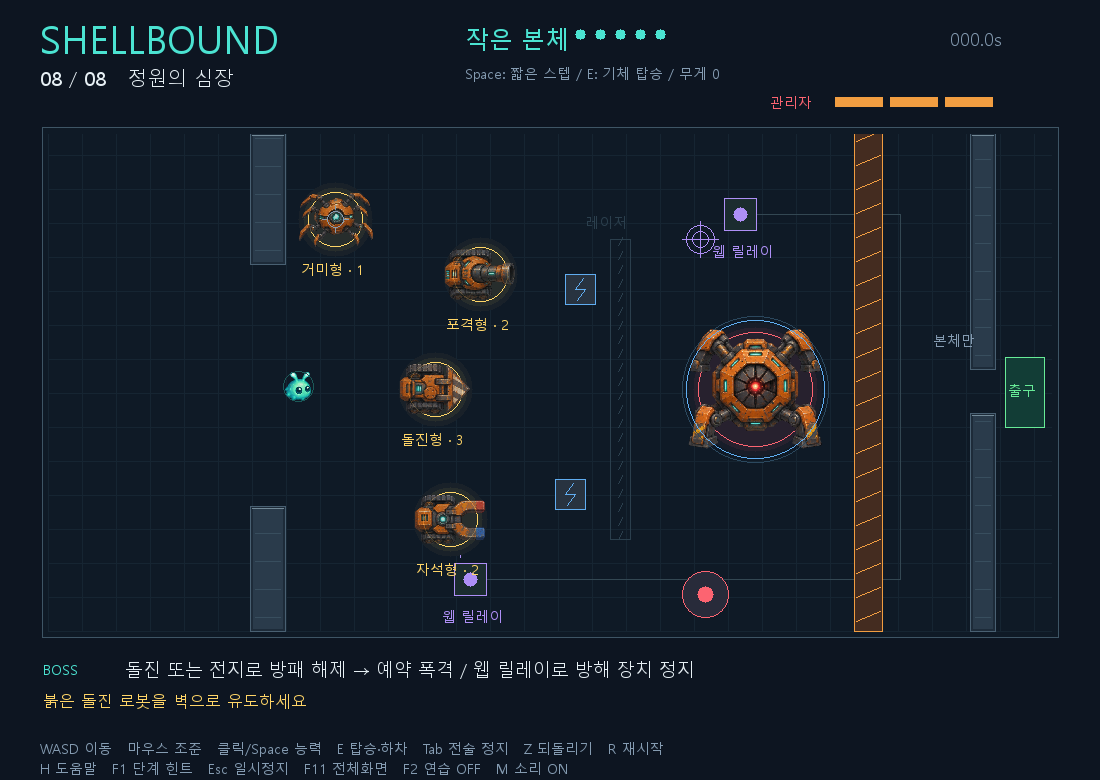
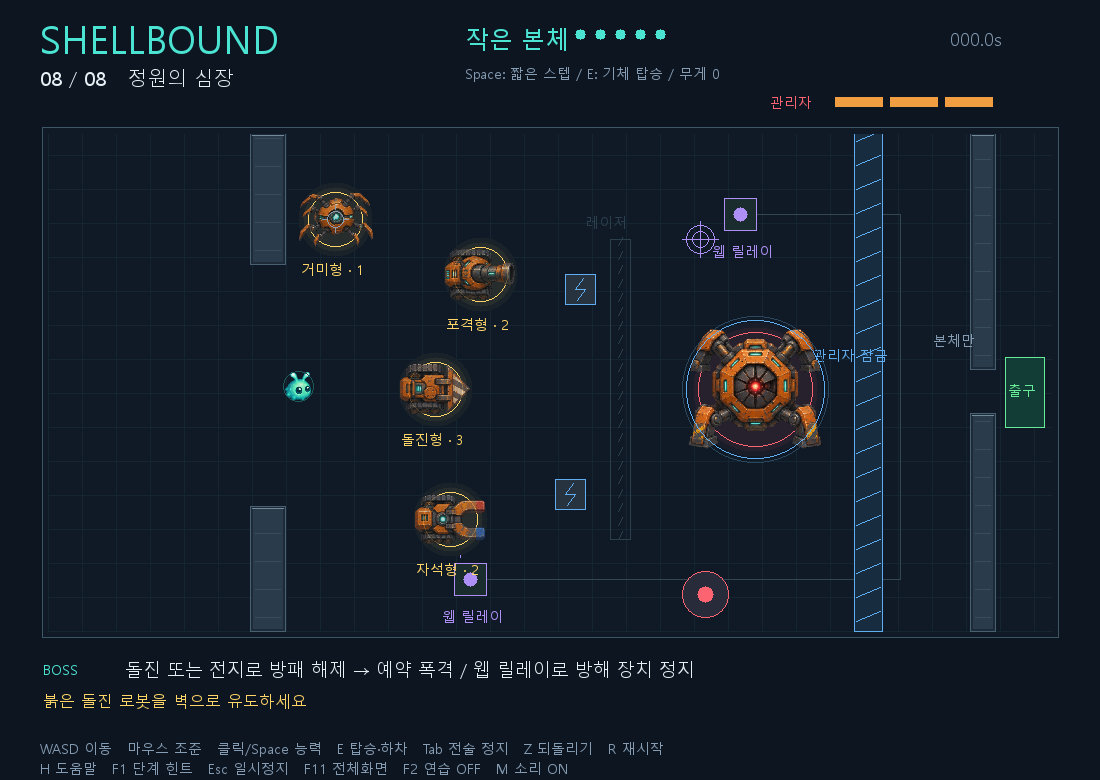
포격 위치에 따라 벽 패널이 실제로 파괴되도록 수정

Changed region(s): [[0.7418, 0.1538, 0.8036, 0.8308]]

diff --git a/shellgame/takeover_rules.py b/shellgame/takeover_rules.py
@@ -7,6 +7,7 @@ from .takeover_levels import WEIGHTS
 class CampaignRules:
     def init_devices(self):
         self.bombs=[]
+        self.broken_gate=set()
         self.drones=[Drone(x,y,armor,mode,anchor=(x,y),phase=i*2)
                      for i,(x,y,armor,mode) in enumerate(self.level.drones)]
         self.crates=[Crate(*entry) for entry in self.level.crates]
@@ -21,6 +22,47 @@ class CampaignRules:
         self.used_practice=self.practice
         for kind in self.level.empty:
             self.machines[kind].state='empty'
+
+    @property
+    def gate_panels(self):
+        from .takeover import GATE,GATE_OPEN
+        if self.level.goal in ('purge','boss') or (self.gate_open and not self.broken_gate):
+            return GATE_OPEN if self.gate_open else [GATE]
+        x,y,w,h=GATE
+        return [(x,y+i*h/12,w,h/12) for i in range(12) if i not in self.broken_gate]
+
+    @property
+    def gate_walls(self):
+        from .takeover import GATE,GATE_OPEN
+        if not self.broken_gate:
+            return GATE_OPEN if self.gate_open else [GATE]
+        # Merge adjacent intact panels for fast collision/path queries. Rendering
+        # keeps panel seams, while physics follows exactly the same missing parts.
+        merged=[]
+        for x,y,w,h in self.gate_panels:
+            if merged and abs(merged[-1][1]+merged[-1][3]-y)<.01:
+                a,b,c,d=merged[-1];merged[-1]=(a,b,c,d+h)
+            else:merged.append((x,y,w,h))
+        return merged
+
+    def break_gate(self,x,y,radius,weapon):
+        from .takeover import GATE
+        if self.level.goal in ('purge','boss') or self.level.gate_weapon!=weapon:return 0
+        if self.level.powered_gate and not self.power_ready:
+            self.emit('block',868,390,message='출구 전원이 부족합니다. 압력판과 웹 릴레이 상태를 확인하세요')
+            return 0
+        gx,gy,gw,gh=GATE;new=[]
+        for i in range(12):
+            rect=(gx,gy+i*gh/12,gw,gh/12)
+            if i not in self.broken_gate and circle_rect(x,y,radius,rect):new.append((i,rect))
+        if not new:return 0
+        for index,(px,py,pw,ph) in new:
+            self.broken_gate.add(index)
+            self.emit('break',px+pw/2,py+ph/2)
+        self.gate_open=True
+        self.message='맞은 벽 조각이 부서졌습니다. 열린 틈으로 이동하거나 남은 벽을 더 부술 수 있습니다'
+        self.message_time=3.
+        return len(new)
 
     @property
     def plate_weights(self):
@@ -135,11 +177,9 @@ class CampaignRules:
 
     def ram_contacts(self,m):
         hit=False
-        if self.level.gate_weapon=='ram' and not self.gate_open:
-            from .takeover import GATE
-            if circle_rect(m.x+m.direction[0]*8,m.y+m.direction[1]*8,m.radius,GATE):
-                self.gate_open=True;hit=True
-                self.emit('break',868,390,message='균열벽 돌파! 본체로 좁은 틈을 지나세요')
+        if self.level.gate_weapon=='ram':
+            contact=any(circle_rect(m.x+m.direction[0]*8,m.y+m.direction[1]*8,m.radius,part) for part in self.gate_walls)
+            if contact:hit=bool(self.break_gate(m.x+m.direction[0]*8,m.y+m.direction[1]*8,72,'ram'))
         for crate in self.crates:
             if crate.alive and distance(m.pos,crate.pos)<m.radius+crate.radius+5:
                 crate.vx,crate.vy=m.direction[0]*400,m.direction[1]*400
@@ -185,14 +225,9 @@ class CampaignRules:
                 self.emit('break',*self.boss.pos,message=f'관리자 손상! 남은 장갑 {self.boss.hp}')
                 if self.boss.hp<=0:self.gate_open=True;self.emit('key',*self.boss.pos,message='정원 정지. 이제 껍질을 내려놓고 출구로 향하세요')
             else:self.emit('block',*self.boss.pos,message='관리자 방패가 닫혀 있습니다. 돌진 또는 전지로 먼저 여세요')
-        if self.level.goal not in ('purge','boss') and not self.gate_open:
+        if self.level.goal not in ('purge','boss'):
             from .takeover import GATE
-            if self.level.gate_weapon=='gun' and circle_rect(b.x,b.y,b.radius,GATE):
-                if self.level.powered_gate and not self.power_ready:
-                    self.emit('block',868,390,message='출구 전원이 부족합니다. 압력판과 웹 릴레이 상태를 확인하세요')
-                else:
-                    self.gate_open=True
-                    self.emit('break',868,390,message='차단벽 파괴! 본체로 좁은 틈을 지나 탈출하세요')
+            if circle_rect(b.x,b.y,b.radius,GATE):self.break_gate(b.x,b.y,b.radius,'gun')
 
     def campaign_step(self,dt,c):
         self.step_dt=dt;self.beams=[];self.magnet_active=False

diff --git a/shellgame/takeover_view.py b/shellgame/takeover_view.py
@@ -118,9 +118,14 @@ def arena(d,w,aim):
                 d.text(x-20,625,'압력문',BLUE,14)
             else:
                 dotted(d,(x+b/2,y),(x+b/2,y+h),(36,95,99),12)
-        for x,y,b,h in (GATE_OPEN if w.gate_open else [GATE]):
-            d.rect(x,y,b,h,(68,44,32));d.rect(x,y,b,h,ORANGE,False)
-            for yy in range(y+10,int(y+h),24):d.line(x+2,yy,x+b-2,yy+10,ORANGE)
+        security=w.level.goal in ('purge','boss')
+        for x,y,b,h in w.gate_panels:
+            color=BLUE if security else ORANGE
+            d.rect(x,y,b,h,(24,44,64) if security else (68,44,32))
+            d.rect(x,y,b,h,color,False)
+            for yy in range(int(y+10),int(y+h),24):d.line(x+2,yy,x+b-2,yy+10,color)
+        if security and not w.gate_open:
+            d.text(813,425,'관리자 잠금' if w.level.boss else '경비 잠금',BLUE,14)
         if w.level.powered_gate and not w.gate_open:
             ring(d,868,390,26,GREEN if w.power_ready else BLUE)
             d.text(816,435,'전원 ON' if w.power_ready else '전원 필요',GREEN if w.power_ready else BLUE,14)
@@ -311,7 +316,7 @@ def menu(d,t,progress=None,selection=0,levels=False,practice=False,message=''):
         d.text(73,127,f'클리어 {len(progress.records)}/8  ·  보존 메달 {sum(r["stars"] for r in progress.records.values())}/24',GOLD,16)
     d.text(73,94,'P 연습 · 1–8 빠른 선택 · H 도움말 · F11 전체화면',MUTED,16)
     d.text(73,58,message or 'Tab으로 생각하고, Z로 다른 배치를 시험하세요.',GOLD if message else MUTED,16)
-    d.text(998,22,'v1.0.0',MUTED,14)
+    d.text(998,22,'v1.0.1',MUTED,14)
     if not sprite(d,'core',827,590+math.sin(t*2)*6,116):core(d,827,550,t)
     for i,kind in enumerate(('ram','gun','mag','spider')):
         a=t*.08+i*math.tau/4;x=825+math.cos(a)*150;y=353+math.sin(a)*125

diff --git a/test_campaign_release.py b/test_campaign_release.py
@@ -112,6 +112,29 @@ class AbilityTests(unittest.TestCase):
         self.assertGreater(w.boss.exposed,0)
         self.assertTrue(any(not crate.alive for crate in w.crates))
 
+    def test_upper_wall_hit_does_not_open_unhit_middle(self):
+        w=Arena(stage=1);w.detonate(Bomb(868,610))
+        self.assertTrue(w.gate_open);self.assertTrue(w.broken_gate)
+        self.assertTrue(w.allowed(868,610,11))
+        self.assertFalse(w.allowed(868,390,11))
+
+    def test_repeated_blasts_can_destroy_all_remaining_wall_parts(self):
+        w=Arena(stage=1)
+        for y in (610,390,180):w.detonate(Bomb(868,y))
+        self.assertEqual(len(w.broken_gate),12)
+        self.assertEqual(w.gate_walls,[]);self.assertEqual(w.gate_panels,[])
+
+    def test_unpowered_wall_loses_no_segments(self):
+        w=Arena(stage=4);w.detonate(Bomb(868,610))
+        self.assertEqual(w.broken_gate,set());self.assertFalse(w.gate_open)
+
+    def test_undo_restores_wall_shape_and_collision(self):
+        w=Arena(stage=1);history=Undo();history.take(w)
+        w.detonate(Bomb(868,610));restored=history.restore()
+        self.assertTrue(w.allowed(868,610,11))
+        self.assertFalse(restored.allowed(868,610,11))
+        self.assertEqual(restored.broken_gate,set())
+
 class ProgressTests(unittest.TestCase):
     def test_corrupt_save_is_ignored_and_normal_clear_is_saved(self):
         with tempfile.TemporaryDirectory() as tmp:

diff --git a/shellgame/takeover.py b/shellgame/takeover.py
@@ -120,7 +120,7 @@ class Arena(CampaignRules):
     @property
     def walls(self):
         doors=[d[:4] for i,d in enumerate(self.level.doors) if not self.door_is_open(i)]
-        return self.solids + doors + (GATE_OPEN if self.gate_open else [GATE])
+        return self.solids + doors + self.gate_walls
 
     @property
     def laser_state(self):
@@ -316,11 +316,6 @@ class Arena(CampaignRules):
                 ok = self.move(m, m.direction[0]*speed*dt, m.direction[1]*speed*dt, m.radius)
                 if m.state=='grapple' and distance(m.pos,m.target)<14:m.timer=0
                 if m.kind=='ram' and self.ram_contacts(m):m.timer=0
-                if (self.level.gate_weapon == 'ram' and not self.gate_open and
-                    circle_rect(m.x+m.direction[0]*8, m.y+m.direction[1]*8, m.radius, GATE)):
-                    self.gate_open = True
-                    self.emit('break',868,390,'균열벽 돌파! 하차한 뒤 작은 틈으로 탈출하세요')
-                    m.timer = 0
                 for other in self.machines.values():
                     if other is not m and other.state not in ('wreck', 'piloted', 'stun', 'empty') and distance(m.pos, other.pos) < 57:
                         other.armor = False

diff --git a/README.md b/README.md
@@ -53,6 +53,8 @@ python main.py
 
 **벗은 몸은 사라지지 않습니다.** 빈 기체는 직선 탄을 막고 압력판을 계속 누릅니다. 진행 중인 돌진과 예약 폭격은 하차 뒤에도 남은 명령을 수행합니다.
 
+주황 파괴벽은 폭격이 실제로 닿은 패널이 부서집니다. 위쪽을 맞히면 위쪽에 구멍이 나며, 남은 조각도 추가 공격으로 부술 수 있습니다. 전원이 필요한 벽은 압력판·릴레이 조건을 먼저 충족해야 합니다.
+
 폭격은 적뿐 아니라 **남겨 둔 기체도 파괴**합니다. 필요한 몸을 보존해야 하는 퍼즐방에서는 무조건 공격하는 것이 정답이 아닙니다. 실수했다면 Z로 되돌려 다른 배치를 시험하세요.
 
 ![예약 폭격과 자석 연계](screenshots/release/04_combo.png)
@@ -90,7 +92,7 @@ python main.py
 
 - Python / pico2d. 시뮬레이션과 입력·화면·저장 코드를 분리
 - 돌진·탄 이동은 짧은 하위 간격으로 충돌 계산
-- **83개 자동 검사 통과**: 기존 모드, 능력 조합, 배치·전원·보스, 저장·되돌리기·전체화면·마우스 입력
+- **87개 자동 검사 통과**: 기존 모드, 능력 조합, 배치·전원·보스, 저장·되돌리기·전체화면·마우스 입력
 - 8개 방 모두 일반 모드, WASD와 같은 8방향 입력만으로 클리어 검증
 - 실제 앱의 키보드 입력 경로로 1→8→엔딩 연속 진행 검증
 - 스크린샷은 실제 SDL 렌더러로 자동 입력 중 저장한 화면이며, 사람의 직접 플레이 영상은 아님
